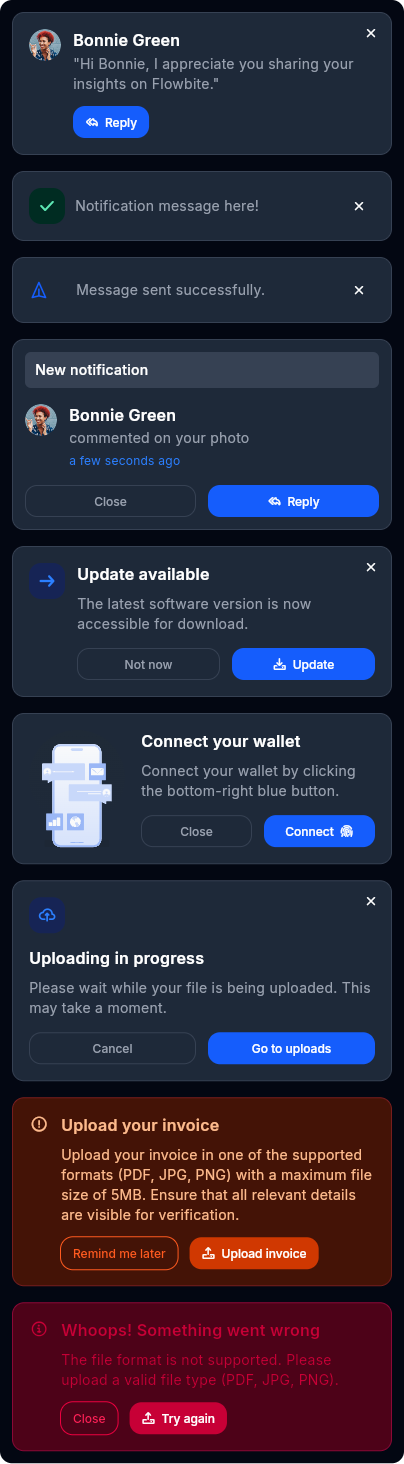
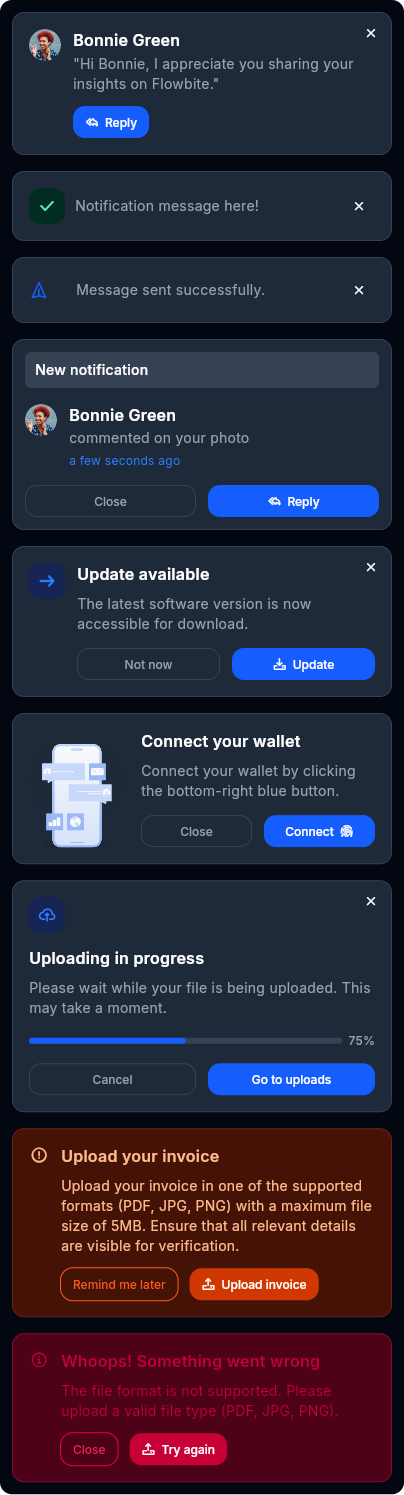
Add `FlowbiteProgressBar` component

diff --git a/example/lib/main.dart b/example/lib/main.dart
@@ -11,8 +11,6 @@ import 'package:example/input_field_section.dart';
 import 'package:example/section_container.dart';
 import 'package:example/spinner_section.dart';
 import 'package:example/typography_section.dart';
-import 'package:flowbite_icons/flowbite_icons.dart';
-import 'package:flowbite_illustrations/flowbite_illustrations.dart';
 import 'package:flowbite_ui/flowbite_ui.dart';
 import 'package:material_ui/material_ui.dart';
 
